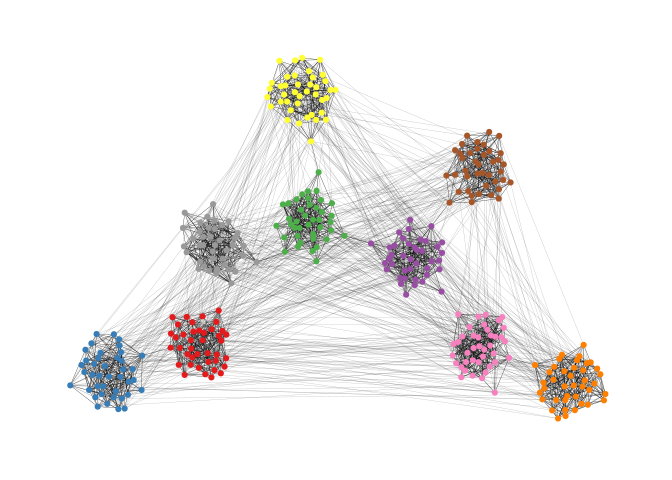
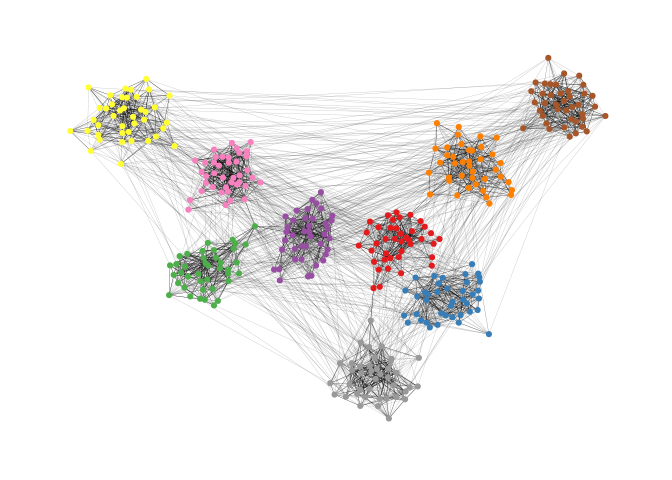
bug fixes and speed improvements

Changed region(s): [[0.0938, 0.0938, 0.9062, 0.875]]

diff --git a/src/reweight.cpp b/src/reweight.cpp
@@ -1,0 +1,60 @@
+#include <Rcpp.h>
+using namespace Rcpp;
+
+
+// [[Rcpp::export]]
+NumericVector reweighting(IntegerMatrix el,List N_ranks) {
+  int m = el.nrow();
+  IntegerMatrix Nru;
+  IntegerMatrix Nrv;
+  IntegerVector Nru_vec;
+  IntegerVector Nrv_vec;
+  int u;
+  int v;
+  int ui;
+  int vi;
+  int maxu;
+  int maxv;
+  int maxi;
+  NumericVector new_w(m);
+  for(int e=0; e<m; ++e){
+    u = el(e,0);
+    v = el(e,1);
+    Nru = as<IntegerMatrix>(N_ranks[u]);
+    Nrv = as<IntegerMatrix>(N_ranks[v]);
+    maxu = Rcpp::max(Nru(_, 1));
+    maxv = Rcpp::max(Nrv(_, 1));
+    maxi = max(IntegerVector::create(maxu,maxv));
+    Nru_vec = Nru(_,0);
+    Nrv_vec = Nrv(_,0);
+    double jac_max = 0;
+    for(int i=0;i<maxi;++i){
+      if(i>maxu){
+        ui = maxu;
+      } else{
+        ui = i;
+      }
+      if(i>maxv){
+        vi = maxv;
+      } else{
+        vi = i;
+      }
+      IntegerVector Nru_sort = Nru_vec[seq_len(ui)];
+      IntegerVector Nrv_sort = Nrv_vec[seq_len(vi)];
+      Nru_sort = Nru_sort.sort();
+      Nrv_sort = Nrv_sort.sort();
+      int Nuv_int = intersect(Nru_sort,Nrv_sort).length();
+      int Nuv_tot = union_(Nru_sort,Nrv_sort).length();
+      double jac_temp = double(Nuv_int)/double(Nuv_tot);
+      if(jac_temp>jac_max){
+        jac_max = jac_temp;
+      }
+    }
+    new_w[e]=jac_max;
+
+  }
+  return new_w;
+}
+
+
+

diff --git a/src/RcppExports.cpp b/src/RcppExports.cpp
@@ -5,6 +5,18 @@
 
 using namespace Rcpp;
 
+// reweighting
+NumericVector reweighting(IntegerMatrix el, List N_ranks);
+RcppExport SEXP _graphlayouts_reweighting(SEXP elSEXP, SEXP N_ranksSEXP) {
+BEGIN_RCPP
+    Rcpp::RObject rcpp_result_gen;
+    Rcpp::RNGScope rcpp_rngScope_gen;
+    Rcpp::traits::input_parameter< IntegerMatrix >::type el(elSEXP);
+    Rcpp::traits::input_parameter< List >::type N_ranks(N_ranksSEXP);
+    rcpp_result_gen = Rcpp::wrap(reweighting(el, N_ranks));
+    return rcpp_result_gen;
+END_RCPP
+}
 // stress
 double stress(NumericMatrix x, NumericMatrix W, NumericMatrix D);
 RcppExport SEXP _graphlayouts_stress(SEXP xSEXP, SEXP WSEXP, SEXP DSEXP) {
@@ -67,6 +79,7 @@ END_RCPP
 }
 
 static const R_CallMethodDef CallEntries[] = {
+    {"_graphlayouts_reweighting", (DL_FUNC) &_graphlayouts_reweighting, 2},
     {"_graphlayouts_stress", (DL_FUNC) &_graphlayouts_stress, 3},
     {"_graphlayouts_stress_major", (DL_FUNC) &_graphlayouts_stress_major, 5},
     {"_graphlayouts_stress_radii", (DL_FUNC) &_graphlayouts_stress_radii, 5},

diff --git a/README.md b/README.md
@@ -10,16 +10,9 @@ status](https://ci.appveyor.com/api/projects/status/github/schochastics/smglr?br
 [![CRAN
 status](https://www.r-pkg.org/badges/version/graphlayouts)](https://cran.r-project.org/package=graphlayouts)
 [![lifecycle](https://img.shields.io/badge/lifecycle-maturing-blue.svg)](https://www.tidyverse.org/lifecycle/#maturing)
+[![Downloads](https://cranlogs.r-pkg.org/badges/graphlayouts)](https://cran.rstudio.com/web/packages/graphlayouts/index.html)
 
-**The name of the package has changed from `smglr` to `graphlayouts`**.
-
-(When I started this package, my intention was to only implement stress
-majorization for graph layouts. However, over time, I added some more
-algorithms so that the former name does not really make sense anymore.
-Also, this change hopefully gives me an incentive to further extend the
-package.)
-
-The package implements some graph layout algorithms that are not
+This package implements some graph layout algorithms that are not
 available in `igraph`. See my [blog
 post](http://blog.schochastics.net/post/stress-based-graph-layouts/) for
 an introduction on stress majorization.
@@ -34,6 +27,16 @@ So far, the package implements four algorithms:
     ([Paper](http://jgaa.info/accepted/2011/BrandesPich2011.15.1.pdf))
   - spectral layouts
 
+## Install
+
+``` r
+# dev version
+remotes::install_github("schochastics/graphlayouts")
+
+#CRAN
+install.packages("graphlayouts")
+```
+
 ## Stress Majorization: Connected Network
 
 *This example is a bit of a special case since it exploits some weird
@@ -42,7 +45,6 @@ issues in igraph.*
 ``` r
 library(igraph)   
 library(ggraph)   
-# devtools::install_github("schochastics/graphlayouts")
 library(graphlayouts)
 
 set.seed(666)

diff --git a/cran-comments.md b/cran-comments.md
@@ -1,3 +1,24 @@
+# Update from 0.1.0 to 0.2.0
+
+This update includes some bugfixes and a faster implementation for `layout_as_backbone()`
+
+## Test environments
+
+* ubuntu 18.04, R 3.6.0
+* ubuntu 14.04 (on travis-ci), R 3.6.0
+* win-builder (devel and release)
+* macOS 10.11 El Capitan, R-release
+
+## R CMD check results
+
+There were no ERRORs, WARNINGs, or NOTEs 
+
+## Downstream dependencies
+
+The only package that depends on `graphlayouts` is the `SNAhelper`, which passed 
+R CMD check
+
+
 # Resubmission of inital submission
 
 ## Test environments

diff --git a/NEWS.md b/NEWS.md
@@ -1,6 +1,8 @@
 # graphlayouts 0.2.0
 
-* added checks for multiple and directed edges in `layout_as_backbone`
+* added checks for multiple and directed edges in `layout_as_backbone()`
+* faster implementation of reweighting for `layout_as_backbone()`
+* minor bug fixes in "stress" calculation
 
 # graphlayouts 0.1.0
 
